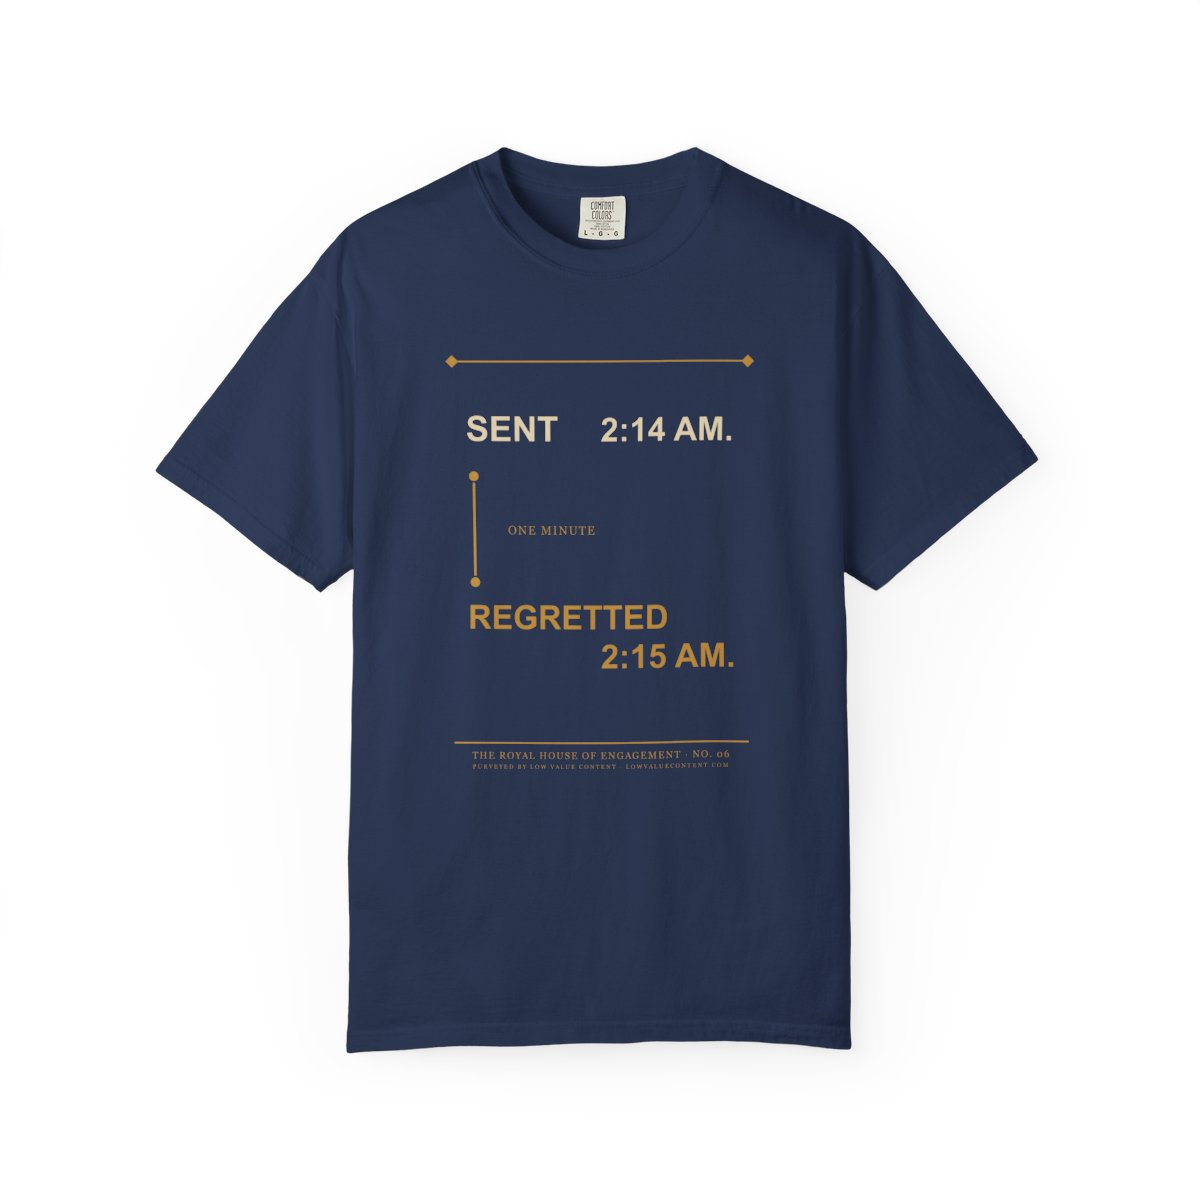
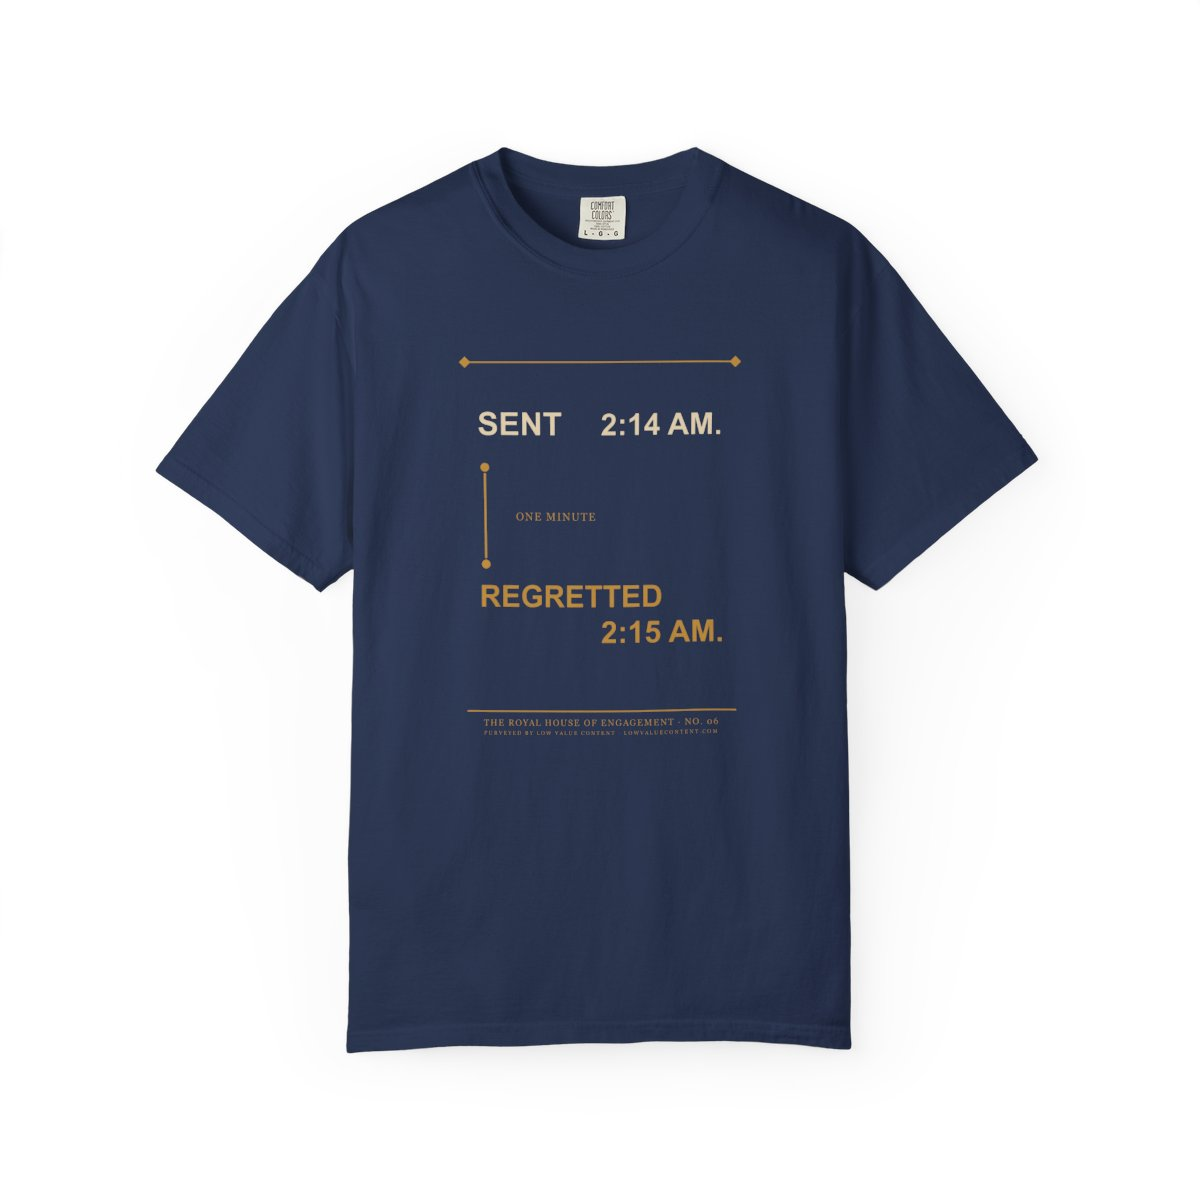
Shorten the six shirt placements by another inch

diff --git a/tools/printify/update_launch_six_art.py b/tools/printify/update_launch_six_art.py
@@ -17,7 +17,7 @@ from PIL import Image
 
 ROOT = Path(__file__).resolve().parents[2]
 SHOP = 29342324
-IMAGE_X, IMAGE_Y, IMAGE_SCALE, IMAGE_ANGLE = 0.5, 0.42, 0.82, 0
+IMAGE_X, IMAGE_Y, IMAGE_SCALE, IMAGE_ANGLE = 0.5, 0.39, 0.75, 0
 RECORD = ROOT / "tools/printify/launch-six-products.json"
 ART = ROOT / "production/print-files/launch-six-redesign-candidate-v1"
 LOG = ROOT / "production/qa/printify-redesign-update-2026-11-23.json"
@@ -65,6 +65,7 @@ def check_product(key, product, entry, allowed_ids):
     image = images[0]
     if (image["x"], image["y"], image["scale"], image["angle"]) not in {
         (0.5, 0.5, 0.9452, 0),
+        (0.5, 0.42, 0.82, 0),
         (IMAGE_X, IMAGE_Y, IMAGE_SCALE, IMAGE_ANGLE),
     }:
         raise RuntimeError(f"{key}: placement changed")

diff --git a/docs/product/blank-and-print-spec.md b/docs/product/blank-and-print-spec.md
@@ -10,13 +10,13 @@ Status: updated November 11, 2026. The **Verified facts** section below supersed
 | Provider | Printify Choice (provider 99). Ten other providers carry the blank; Printful (410) and SwiftPOD (39) have the same three colors, with smaller print areas (3425 x 3882 and 3461 x 3955 px) |
 | Colors we use | **Ivory**, **True Navy**, **Brick**, all in stock for S to 3XL. The catalog also has "Navy" (renders as a grey-blue) and "Crimson" (renders as a coral red), which we rejected. No Comfort Colors shade is called oxblood; Brick is the nearest we tested, so it is provisional until a sample |
 | Sizes sold | S, M, L, XL, 2XL, 3XL (4XL exists on some colors; not used) |
-| Print method | DTG. Front print area 3703 x 4200 px. The November 23 draft placement uses scale 0.82, x 0.50, y 0.42. The 4500 x 5400 image occupies about 10.1 in wide by 12.1 in tall, subject to Printify's actual print rendering. The earlier scale 0.945 was about 11.7 by 14 in. |
+| Print method | DTG. Front print area 3703 x 4200 px. The latest November 23 draft placement uses scale 0.75, x 0.50, y 0.39. The 4500 x 5400 image occupies about 9.3 in wide by 11.1 in tall, subject to Printify's actual print rendering. The previous scale 0.82 was about 10.1 by 12.1 in. |
 | Production cost | S to XL **$12.65**, 2XL $13.89, 3XL $16.03 |
 | US shipping (Printify's quote) | $5.35 first shirt, $2.40 each additional shirt |
 | Care | Machine wash cold (max 30 °C), do not bleach, tumble dry low, iron on low heat, do not dry clean |
 | Handling time | The API reports 10 days for every provider, which looks like a default. Real production time is unverified |
 
-**Print-quality flag.** The November 11 frame note below applies to the earlier art. At the revised 0.82 scale, a 3 px rule in the redesign's 1000-unit source becomes about 0.030 in. The small serif text, including the newly added maker line, needs a physical sample for legibility; the raised placement has only been reviewed in Printify mockups.
+**Print-quality flag.** The November 11 frame note below applies to the earlier art. At scale 0.75, a 3 px rule in the redesign's 1000-unit source becomes about 0.028 in, slightly below the local 0.03 in target. The small serif text, including the maker line, needs a physical sample for legibility; this placement has only been reviewed in Printify mockups.
 
 **Interim mockups.** Printify renders mockups for every color we enabled. They are what the site can show until sample photography exists.
 

diff --git a/docs/product/launch-readiness.md b/docs/product/launch-readiness.md
@@ -21,14 +21,14 @@ State key: **Done** (built and checked), **Ready** (I can do it now without a de
 | Garment colors locked to real blank names | Done | Manifest `blankColor` plus checker; Brick provisional |
 | Confirm Brick and True Navy on a real shirt | Blocked | Needs samples |
 | Confirm print quality, thin rules and gold on dark cotton | Blocked | Needs samples |
-| Frame and small-type quality on the redesign | Blocked | The raised, shorter Printify placement brings the thinnest rules to about 0.030 in. Confirm edge quality and small serif text, especially the maker line, on a physical sample. |
+| Frame and small-type quality on the redesign | Blocked | At the latest shorter placement, the thinnest rules are about 0.028 in, slightly below the local 0.03 in target. Confirm edge quality and small serif text, especially the maker line, on a physical sample. |
 | Trademark knockout searches for the six sayings and the brand | Needs outside | Cannot be done from here; search the USPTO and common marketplaces; the site must not claim clearance |
 
 ## 2. Printify
 
 | Item | State | Notes |
 |---|---|---|
-| Six draft products (Ivory, True Navy, Brick; S to 3XL; placed art) | Done | Existing drafts received the redesign and maker's line November 23, then were shortened and raised to x 0.50, y 0.42, scale 0.82. Each read-back verified image IDs, price, variants and placement. Logs: `production/qa/printify-redesign-update-2026-11-23-first-pass.json`, `production/qa/printify-redesign-update-2026-11-23.json`, and `production/qa/printify-placement-update-2026-11-23.json`. |
+| Six draft products (Ivory, True Navy, Brick; S to 3XL; placed art) | Done | Existing drafts received the redesign and maker's line November 23, then were shortened again to x 0.50, y 0.39, scale 0.75. Each read-back verified image IDs, price, variants and placement. Logs: `production/qa/printify-redesign-update-2026-11-23-first-pass.json`, `production/qa/printify-redesign-update-2026-11-23.json`, `production/qa/printify-placement-update-2026-11-23.json`, and `production/qa/printify-placement-update-2026-11-23-v2.json`. |
 | Old test product removed | Done | Deleted November 11 |
 | Prices on the Printify products | Done | Set to $36 on November 11 |
 | Confirm real production time and the holiday cutoff | Needs outside | Ask Printify support or read the provider page; the 10-day API field looks like a default |
